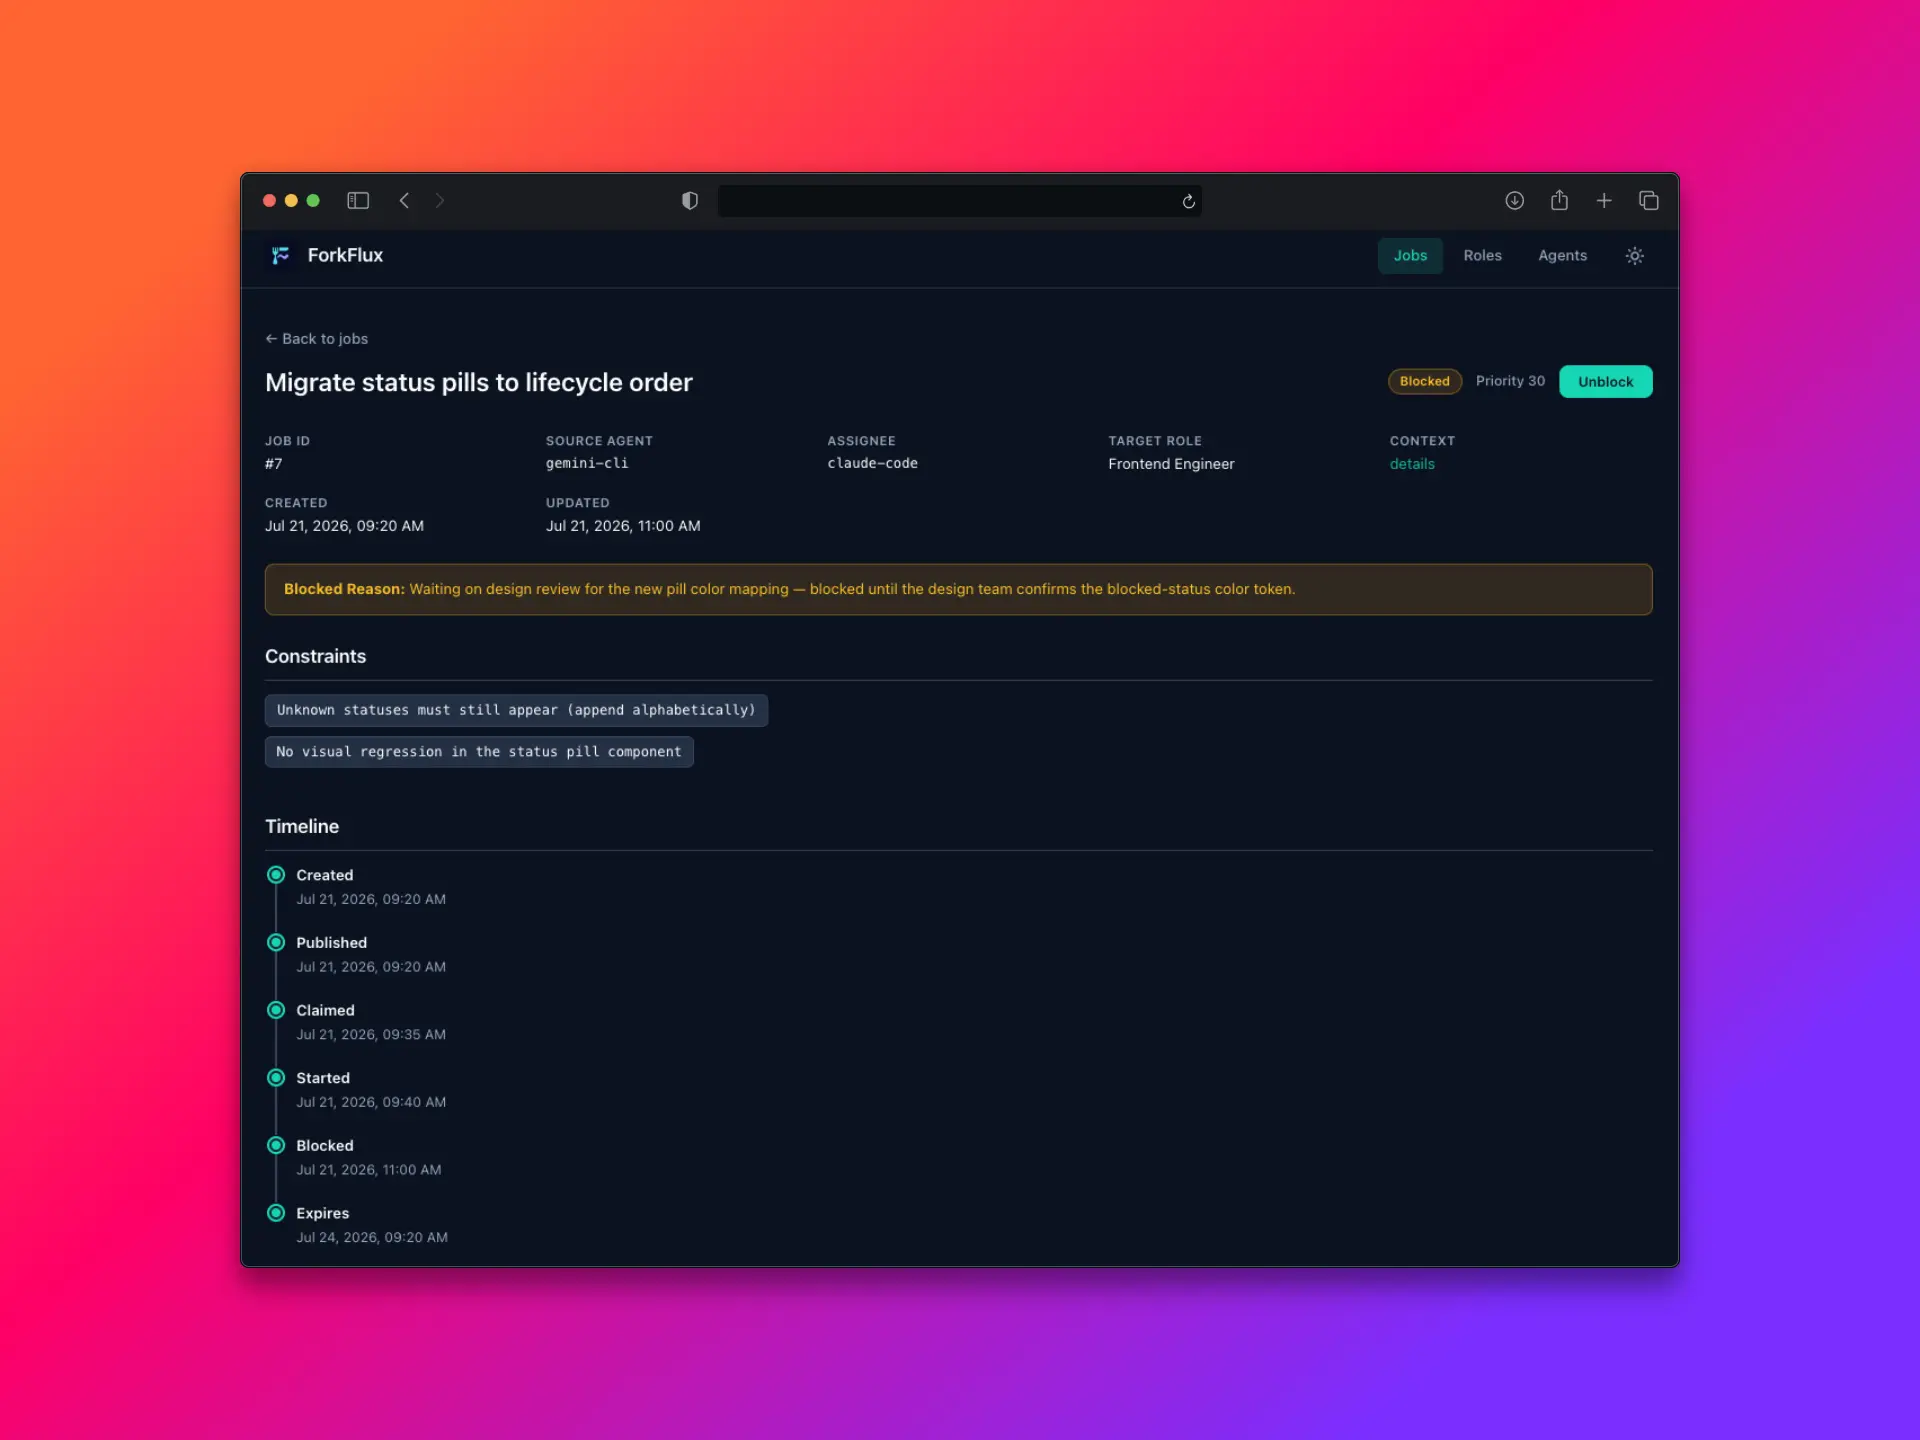
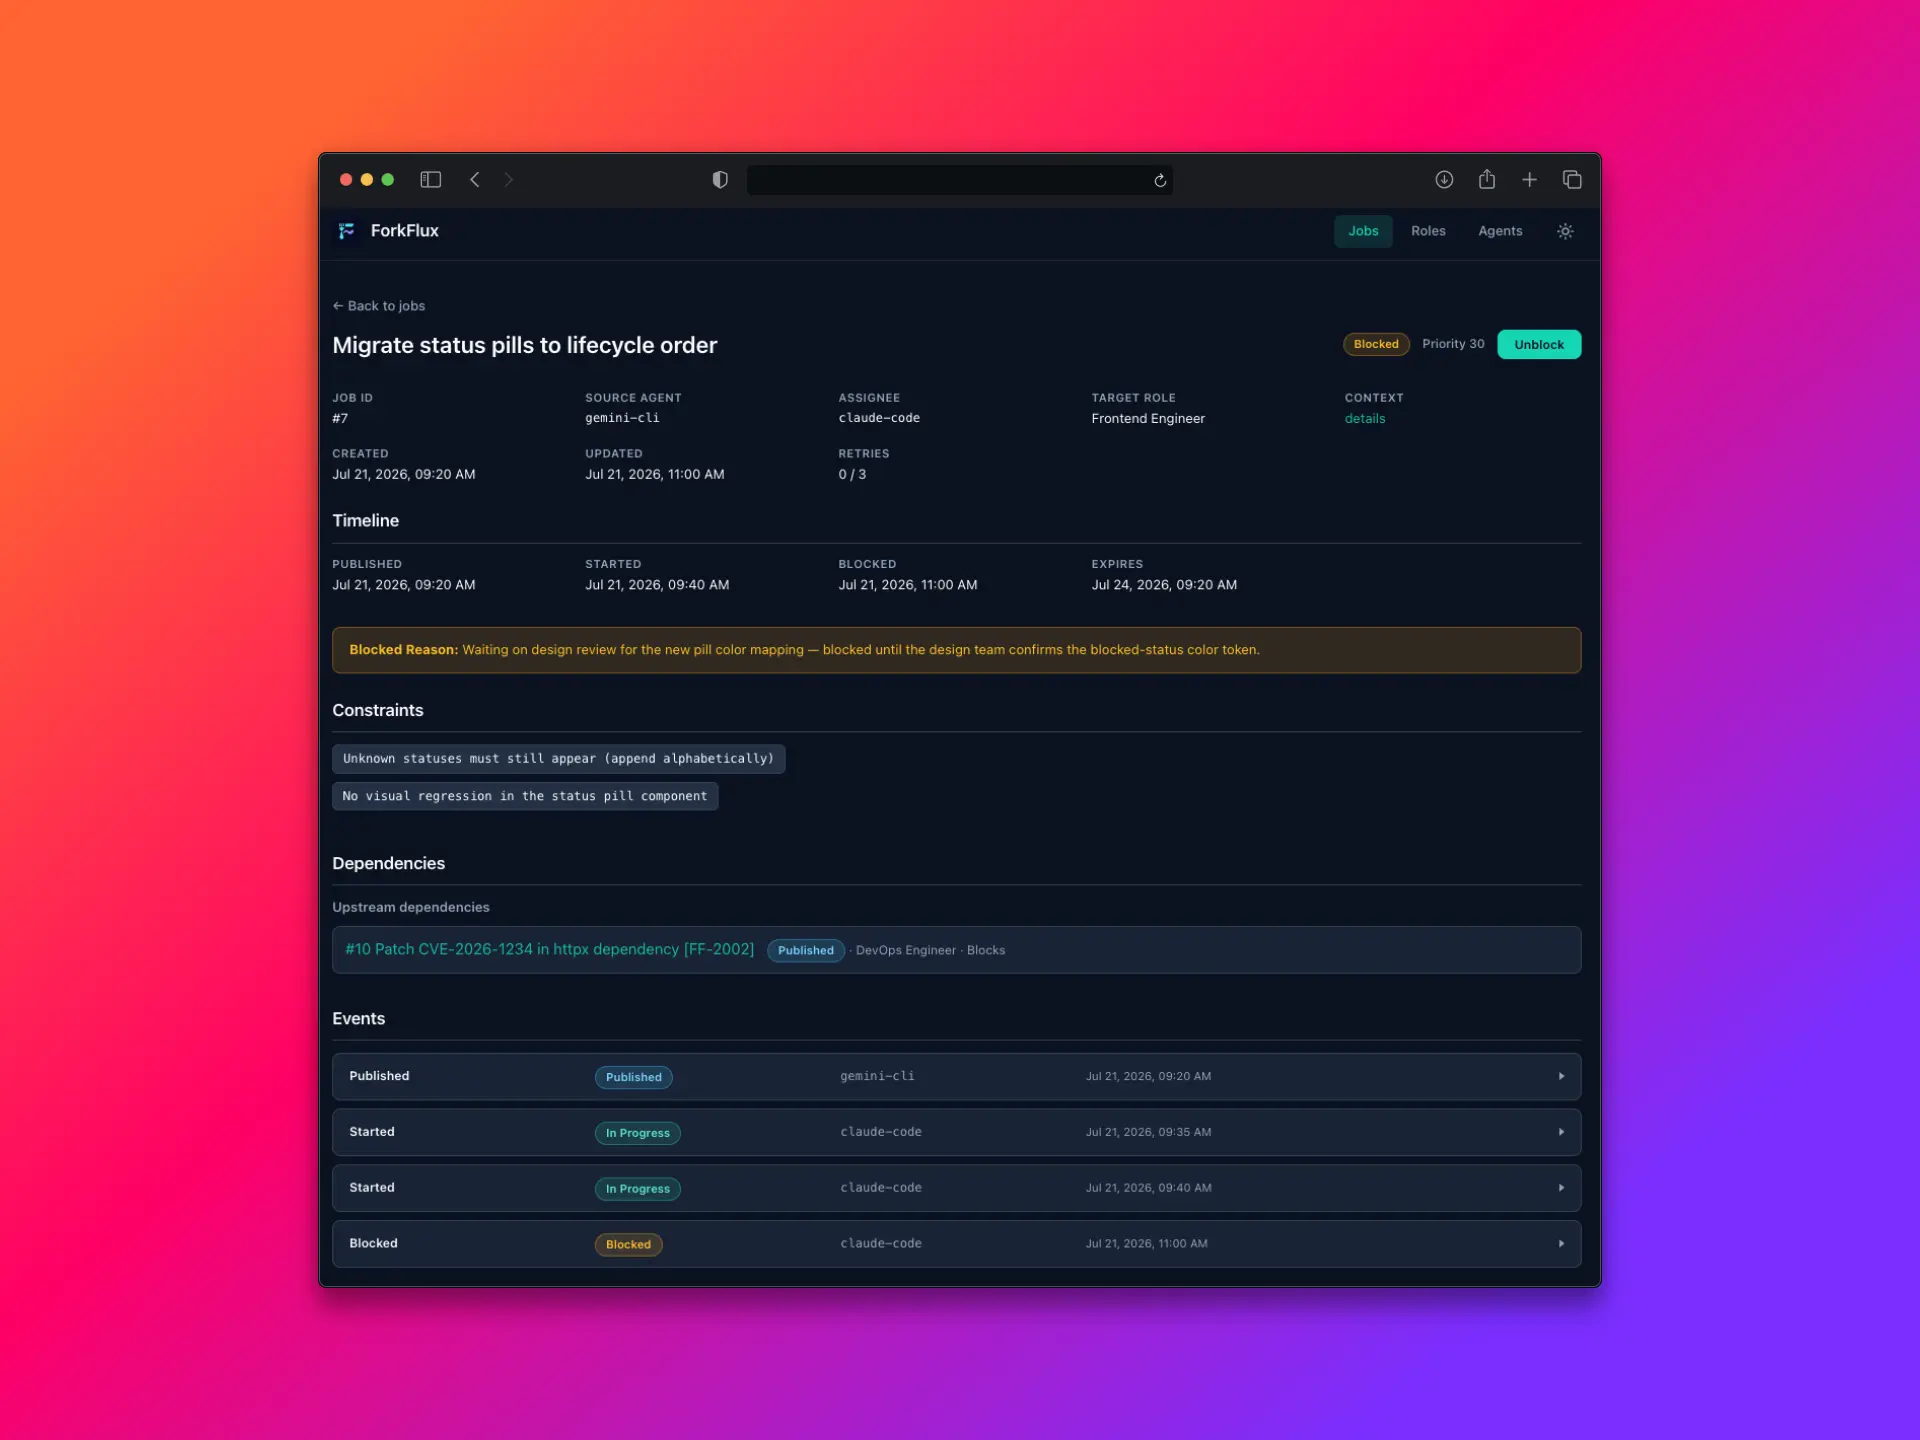
feat(ui): align all job detail fields with backend

Changed region(s): [[0.0938, 0.0938, 0.9062, 0.9375], [0.5625, 0.2812, 0.625, 0.3438], [0.4375, 0.25, 0.4688, 0.3438]]

diff --git a/packages/dashboard/src/pages/JobDetailPage/JobDetailPage.tsx b/packages/dashboard/src/pages/JobDetailPage/JobDetailPage.tsx
@@ -243,7 +243,70 @@ export function JobDetailPage() {
             {formatDate(detail.updated_at)}
           </span>
         </div>
+        <div className="ff-detail__field">
+          <span className="ff-detail__label">Retries</span>
+          <span className="ff-detail__value">
+            {detail.retry_count} / {detail.max_retries}
+          </span>
+        </div>
       </div>
+
+      {/* Timeline */}
+      {(detail.published_at ||
+        detail.started_at ||
+        detail.completed_at ||
+        detail.failed_at ||
+        detail.blocked_at ||
+        detail.cancelled_at ||
+        detail.expires_at) && (
+        <section className="ff-detail__section">
+          <h2>Timeline</h2>
+          <div className="ff-detail__grid">
+            {detail.published_at && (
+              <div className="ff-detail__field">
+                <span className="ff-detail__label">Published</span>
+                <span className="ff-detail__value">{formatDate(detail.published_at)}</span>
+              </div>
+            )}
+            {detail.started_at && (
+              <div className="ff-detail__field">
+                <span className="ff-detail__label">Started</span>
+                <span className="ff-detail__value">{formatDate(detail.started_at)}</span>
+              </div>
+            )}
+            {detail.completed_at && (
+              <div className="ff-detail__field">
+                <span className="ff-detail__label">Completed</span>
+                <span className="ff-detail__value">{formatDate(detail.completed_at)}</span>
+              </div>
+            )}
+            {detail.failed_at && (
+              <div className="ff-detail__field">
+                <span className="ff-detail__label">Failed</span>
+                <span className="ff-detail__value">{formatDate(detail.failed_at)}</span>
+              </div>
+            )}
+            {detail.blocked_at && (
+              <div className="ff-detail__field">
+                <span className="ff-detail__label">Blocked</span>
+                <span className="ff-detail__value">{formatDate(detail.blocked_at)}</span>
+              </div>
+            )}
+            {detail.cancelled_at && (
+              <div className="ff-detail__field">
+                <span className="ff-detail__label">Cancelled</span>
+                <span className="ff-detail__value">{formatDate(detail.cancelled_at)}</span>
+              </div>
+            )}
+            {detail.expires_at && (
+              <div className="ff-detail__field">
+                <span className="ff-detail__label">Expires</span>
+                <span className="ff-detail__value">{formatDate(detail.expires_at)}</span>
+              </div>
+            )}
+          </div>
+        </section>
+      )}
 
       {/* Failure / blocked / unblocked reason callouts */}
       {detail.failure_reason && (
@@ -373,16 +436,16 @@ export function JobDetailPage() {
                   aria-expanded={openArtifacts.has(i)}
                   onClick={() => toggleArtifact(i)}
                 >
-                  <span className="ff-detail__value--mono">{a.type}</span>
-                  <span className="ff-detail__value--mono">{a.uri}</span>
+                  <span className="ff-detail__value--mono">{a.artifact_type}</span>
+                  <span className="ff-detail__value--mono">{a.artifact_uri}</span>
                   <span
                     className="ff-detail__artifact-chevron"
                     aria-hidden="true"
                   />
                 </button>
-                {a.checksum && (
+                {a.artifact_checksum && (
                   <div className="ff-detail__artifact-checksum ff-detail__value--mono">
-                    {a.checksum}
+                    {a.artifact_checksum}
                   </div>
                 )}
                 {openArtifacts.has(i) && <JsonGrid data={a.metadata_json} />}

diff --git a/packages/dashboard/src/pages/JobDetailPage/JobDetailPage.test.tsx b/packages/dashboard/src/pages/JobDetailPage/JobDetailPage.test.tsx
@@ -274,10 +274,12 @@ describe('JobDetailPage', () => {
         id: 1,
         artifacts: [
           {
-            type: 'patch',
-            uri: 's3://bucket/file.bin',
-            checksum: 'sha256:abc123',
+            id: 1,
+            artifact_type: 'patch',
+            artifact_uri: 's3://bucket/file.bin',
+            artifact_checksum: 'sha256:abc123',
             metadata_json: { key: 'value' },
+            created_at: '2026-01-01T00:00:00Z',
           },
         ],
       })
@@ -296,10 +298,12 @@ describe('JobDetailPage', () => {
         id: 1,
         artifacts: [
           {
-            type: 'patch',
-            uri: 's3://bucket/file.bin',
-            checksum: null,
+            id: 1,
+            artifact_type: 'patch',
+            artifact_uri: 's3://bucket/file.bin',
+            artifact_checksum: null,
             metadata_json: { key: 'value' },
+            created_at: '2026-01-01T00:00:00Z',
           },
         ],
       })

diff --git a/packages/dashboard/src/types/job.ts b/packages/dashboard/src/types/job.ts
@@ -44,10 +44,12 @@ export interface JobEvent {
 
 /** A single artifact produced by a job. */
 export interface JobArtifact {
-  type: string;
-  uri: string;
-  checksum: string | null;
+  id: number;
+  artifact_type: string;
+  artifact_uri: string;
+  artifact_checksum: string | null;
   metadata_json: JsonValue;
+  created_at: string;
 }
 
 /** A related job connected to a detail job by a dependency edge. */
